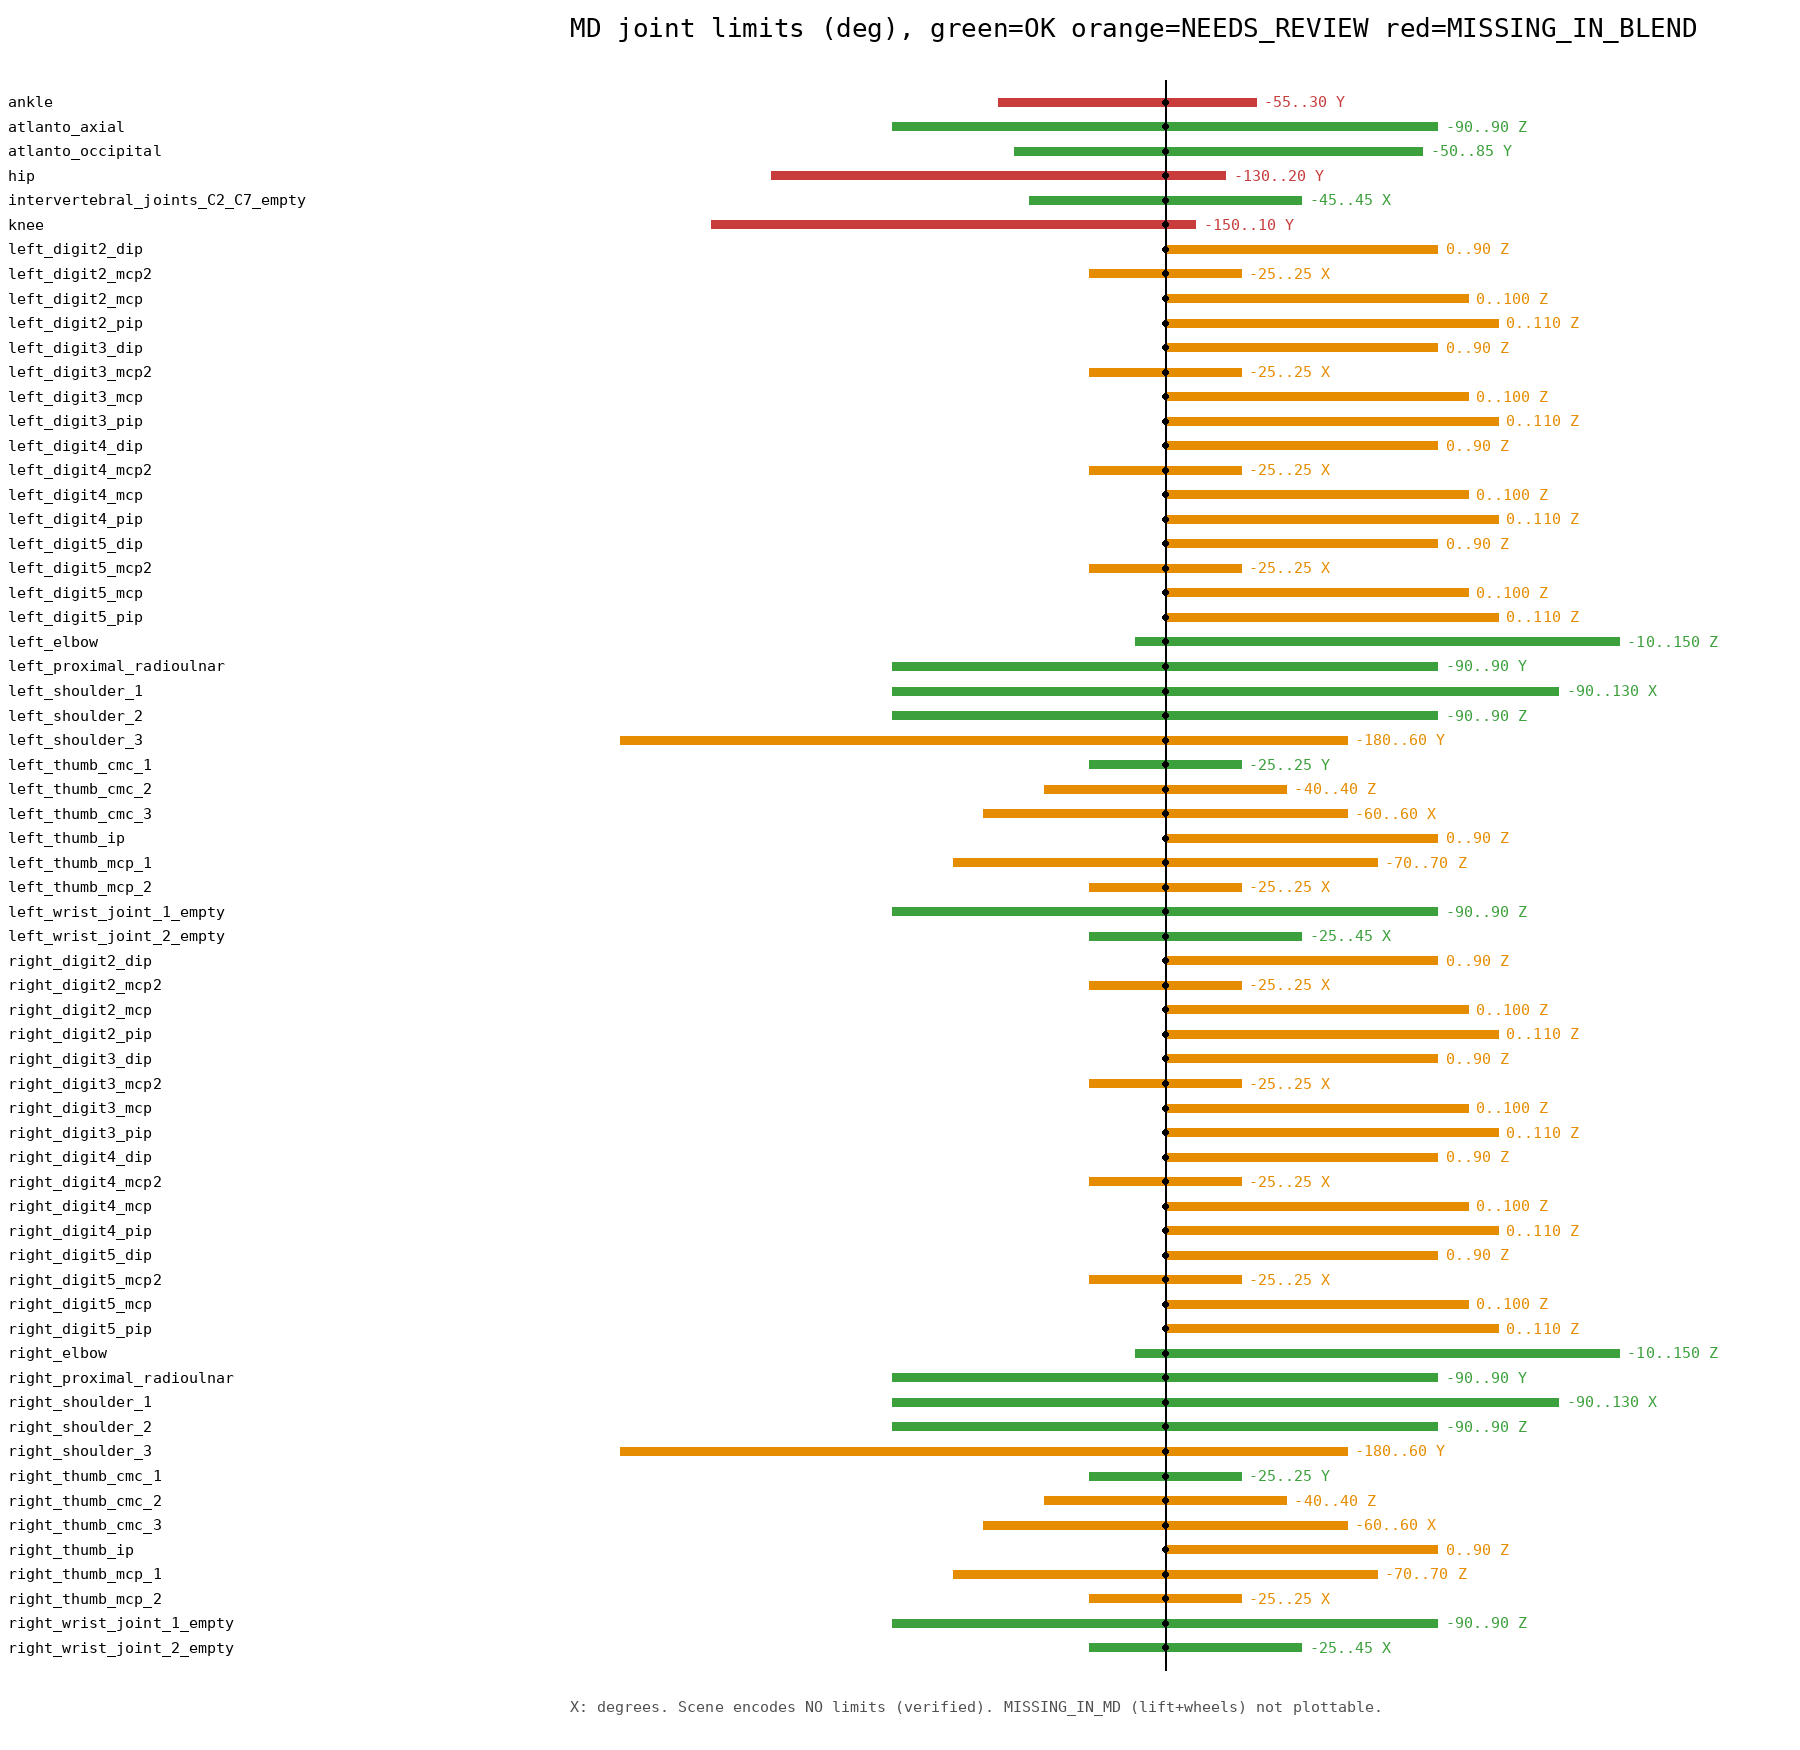
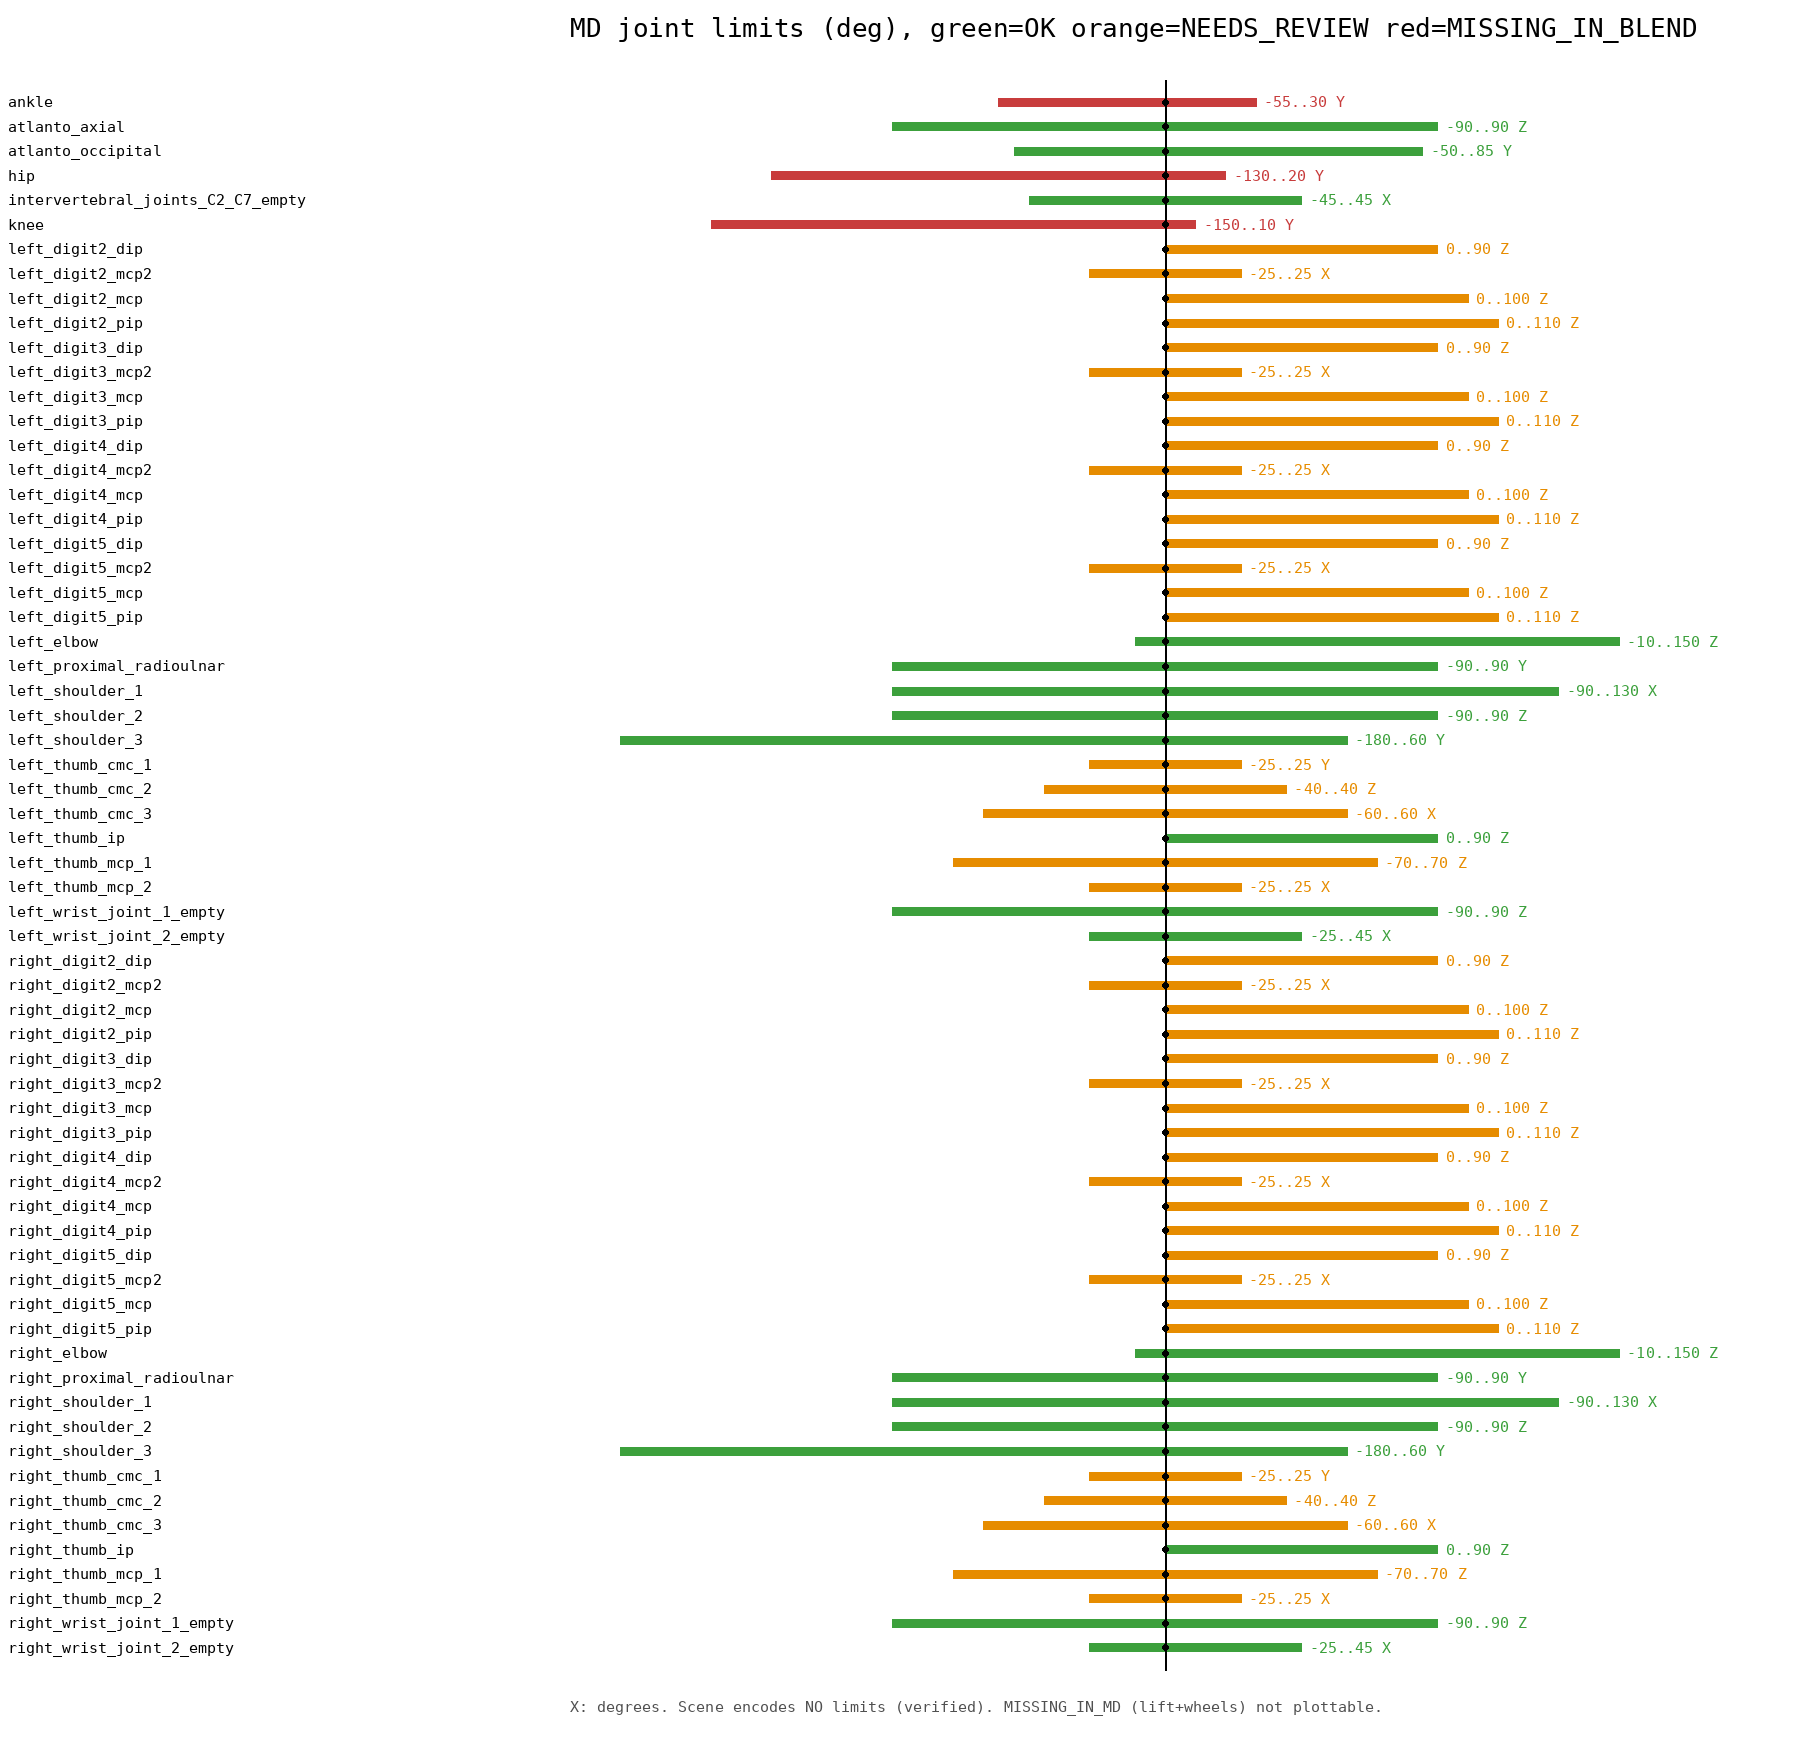
backup: joint limits audit v2 (fixed comparison) + outputs

Changed region(s): [[0.3422, 0.8023, 0.8089, 0.8949], [0.3422, 0.4011, 0.8089, 0.4937]]

diff --git a/joint_limits_audit.py b/joint_limits_audit.py
@@ -116,19 +116,27 @@ for name in sorted(set(list(MD.keys()) + list(BL.keys()))):
     side = "left" if name.startswith("left_") else ("right" if name.startswith("right_") else None)
     ok = True
     reason = ""
-    if m["link"] is not None:
-        mp, mc = m["link"]
+    ml = m.get("link")
+    if ml is not None:
+        mp, mc = ml
         if "metacarpal" in mp:
             ok, reason = False, "MD parent_link references deleted metacarpal"
-        elif mp == "palm_link" and mc == "third_phalanx":
-            if not (bp == side + "_palm_link"):
-                ok, reason = False, "MD links all cmc joints to palm; scene chains cmc_1>2>3"
+        elif "cmc_joint_empty" in name:
+            ok, reason = False, "MD models cmc parallel under palm; scene serial cmc_1>2>3"
         elif mp in ("proximal-chain", "see-note") or mc in ("proximal-chain", "see-note"):
             ok, reason = False, "MD finger chain order differs from scene (inverted meshes)"
-        else:
-            exp_p = (side + "_" + mp) if side else mp
-            if bp != exp_p:
-                ok, reason = False, "parent mismatch MD=%s scene=%s" % (mp, bp)
+        elif mp == "torso_link":
+            if bp != "torso_link":
+                ok, reason = False, "parent mismatch"
+        elif side and mp in ("shoulder_2_link", "shoulder_3_link", "shoulder_link", "forearm_link", "radioulnar_link", "wrist_pitch_link", "palm_link"):
+            ck = bk[0] if bk else None
+            if bp != side + "_" + mp or ck != side + "_" + mc:
+                ok, reason = False, "link mismatch MD=(%s>%s) scene=(%s>%s)" % (mp, mc, bp, ck)
+        elif side:
+            f = lambda x: x + "_" + side + "_thumb_link"
+            ck = bk[0] if bk else None
+            if bp != f(mp) or ck != f(mc):
+                ok, reason = False, "thumb link mismatch"
     st = "OK" if ok else "NEEDS_REVIEW"
     rows.append((name, True, True, m["type"], m["axis"], "0 (identity)", m["min"], m["max"],
                  "NONE", "none found", st + ("" if ok else " [" + reason + "]")))
